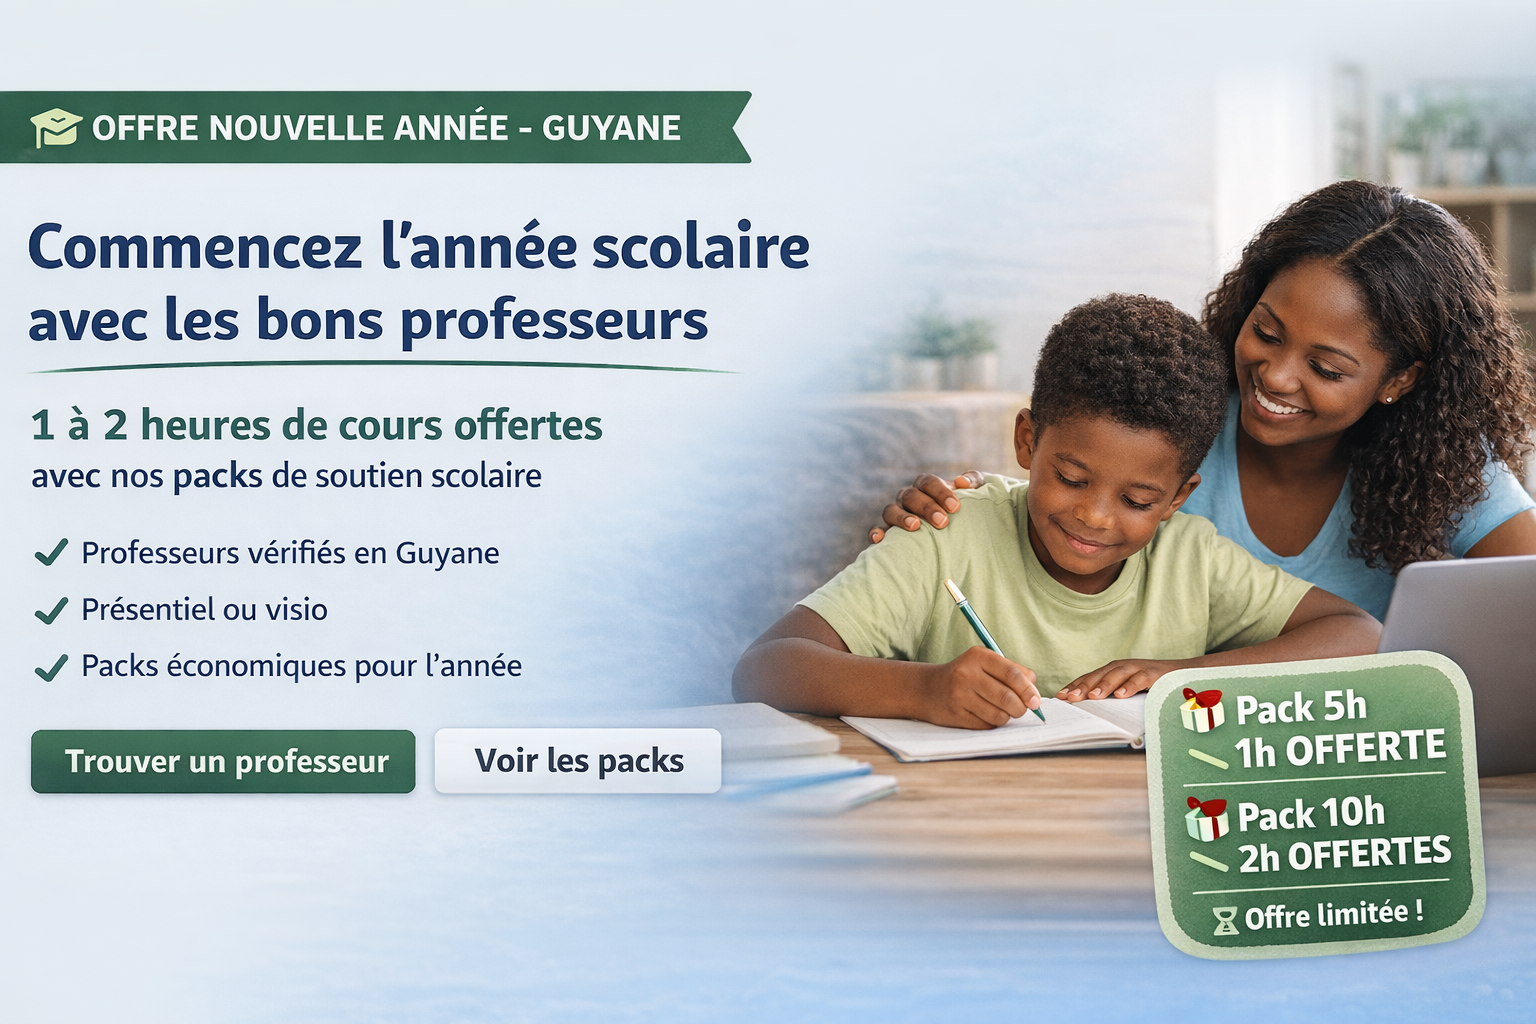
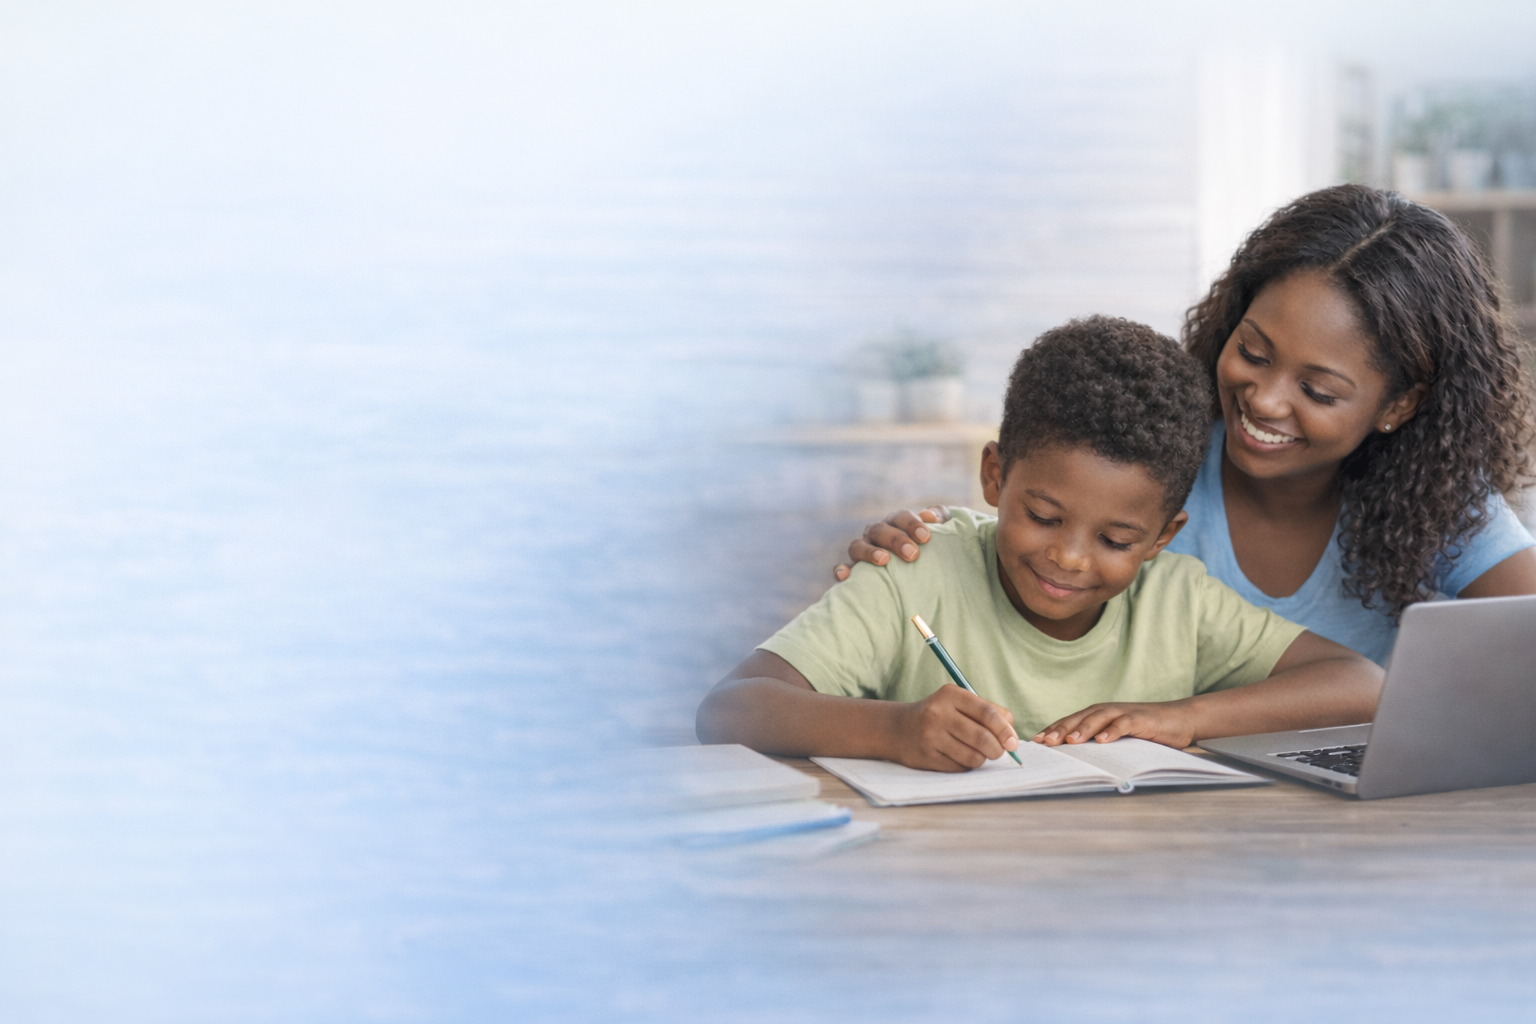
Touche final

diff --git a/frontend/pages/Home.jsx b/frontend/pages/Home.jsx
@@ -256,12 +256,19 @@ export default function Home() {
               </button>
             </form>
 
+            <img
+              src="/packs-offre-2026.png"
+              alt="Offre packs EduKaraib"
+              className="mt-6 rounded-2xl shadow-lg w-full max-w-sm mx-auto"
+            />
+
             {/* Badges de confiance */}
             <div className="mt-6 flex flex-wrap items-center gap-x-6 gap-y-2 text-sm text-gray-600">
               <span className="inline-flex items-center gap-2"><span className="text-xl">⭐</span> Avis vérifiés</span>
               <span className="inline-flex items-center gap-2"><span className="text-xl">🔒</span> Paiement sécurisé</span>
               <span className="inline-flex items-center gap-2"><span className="text-xl">⚡</span> Réservation rapide</span>
             </div>
+            
           </div>
           </div>
         </div>
